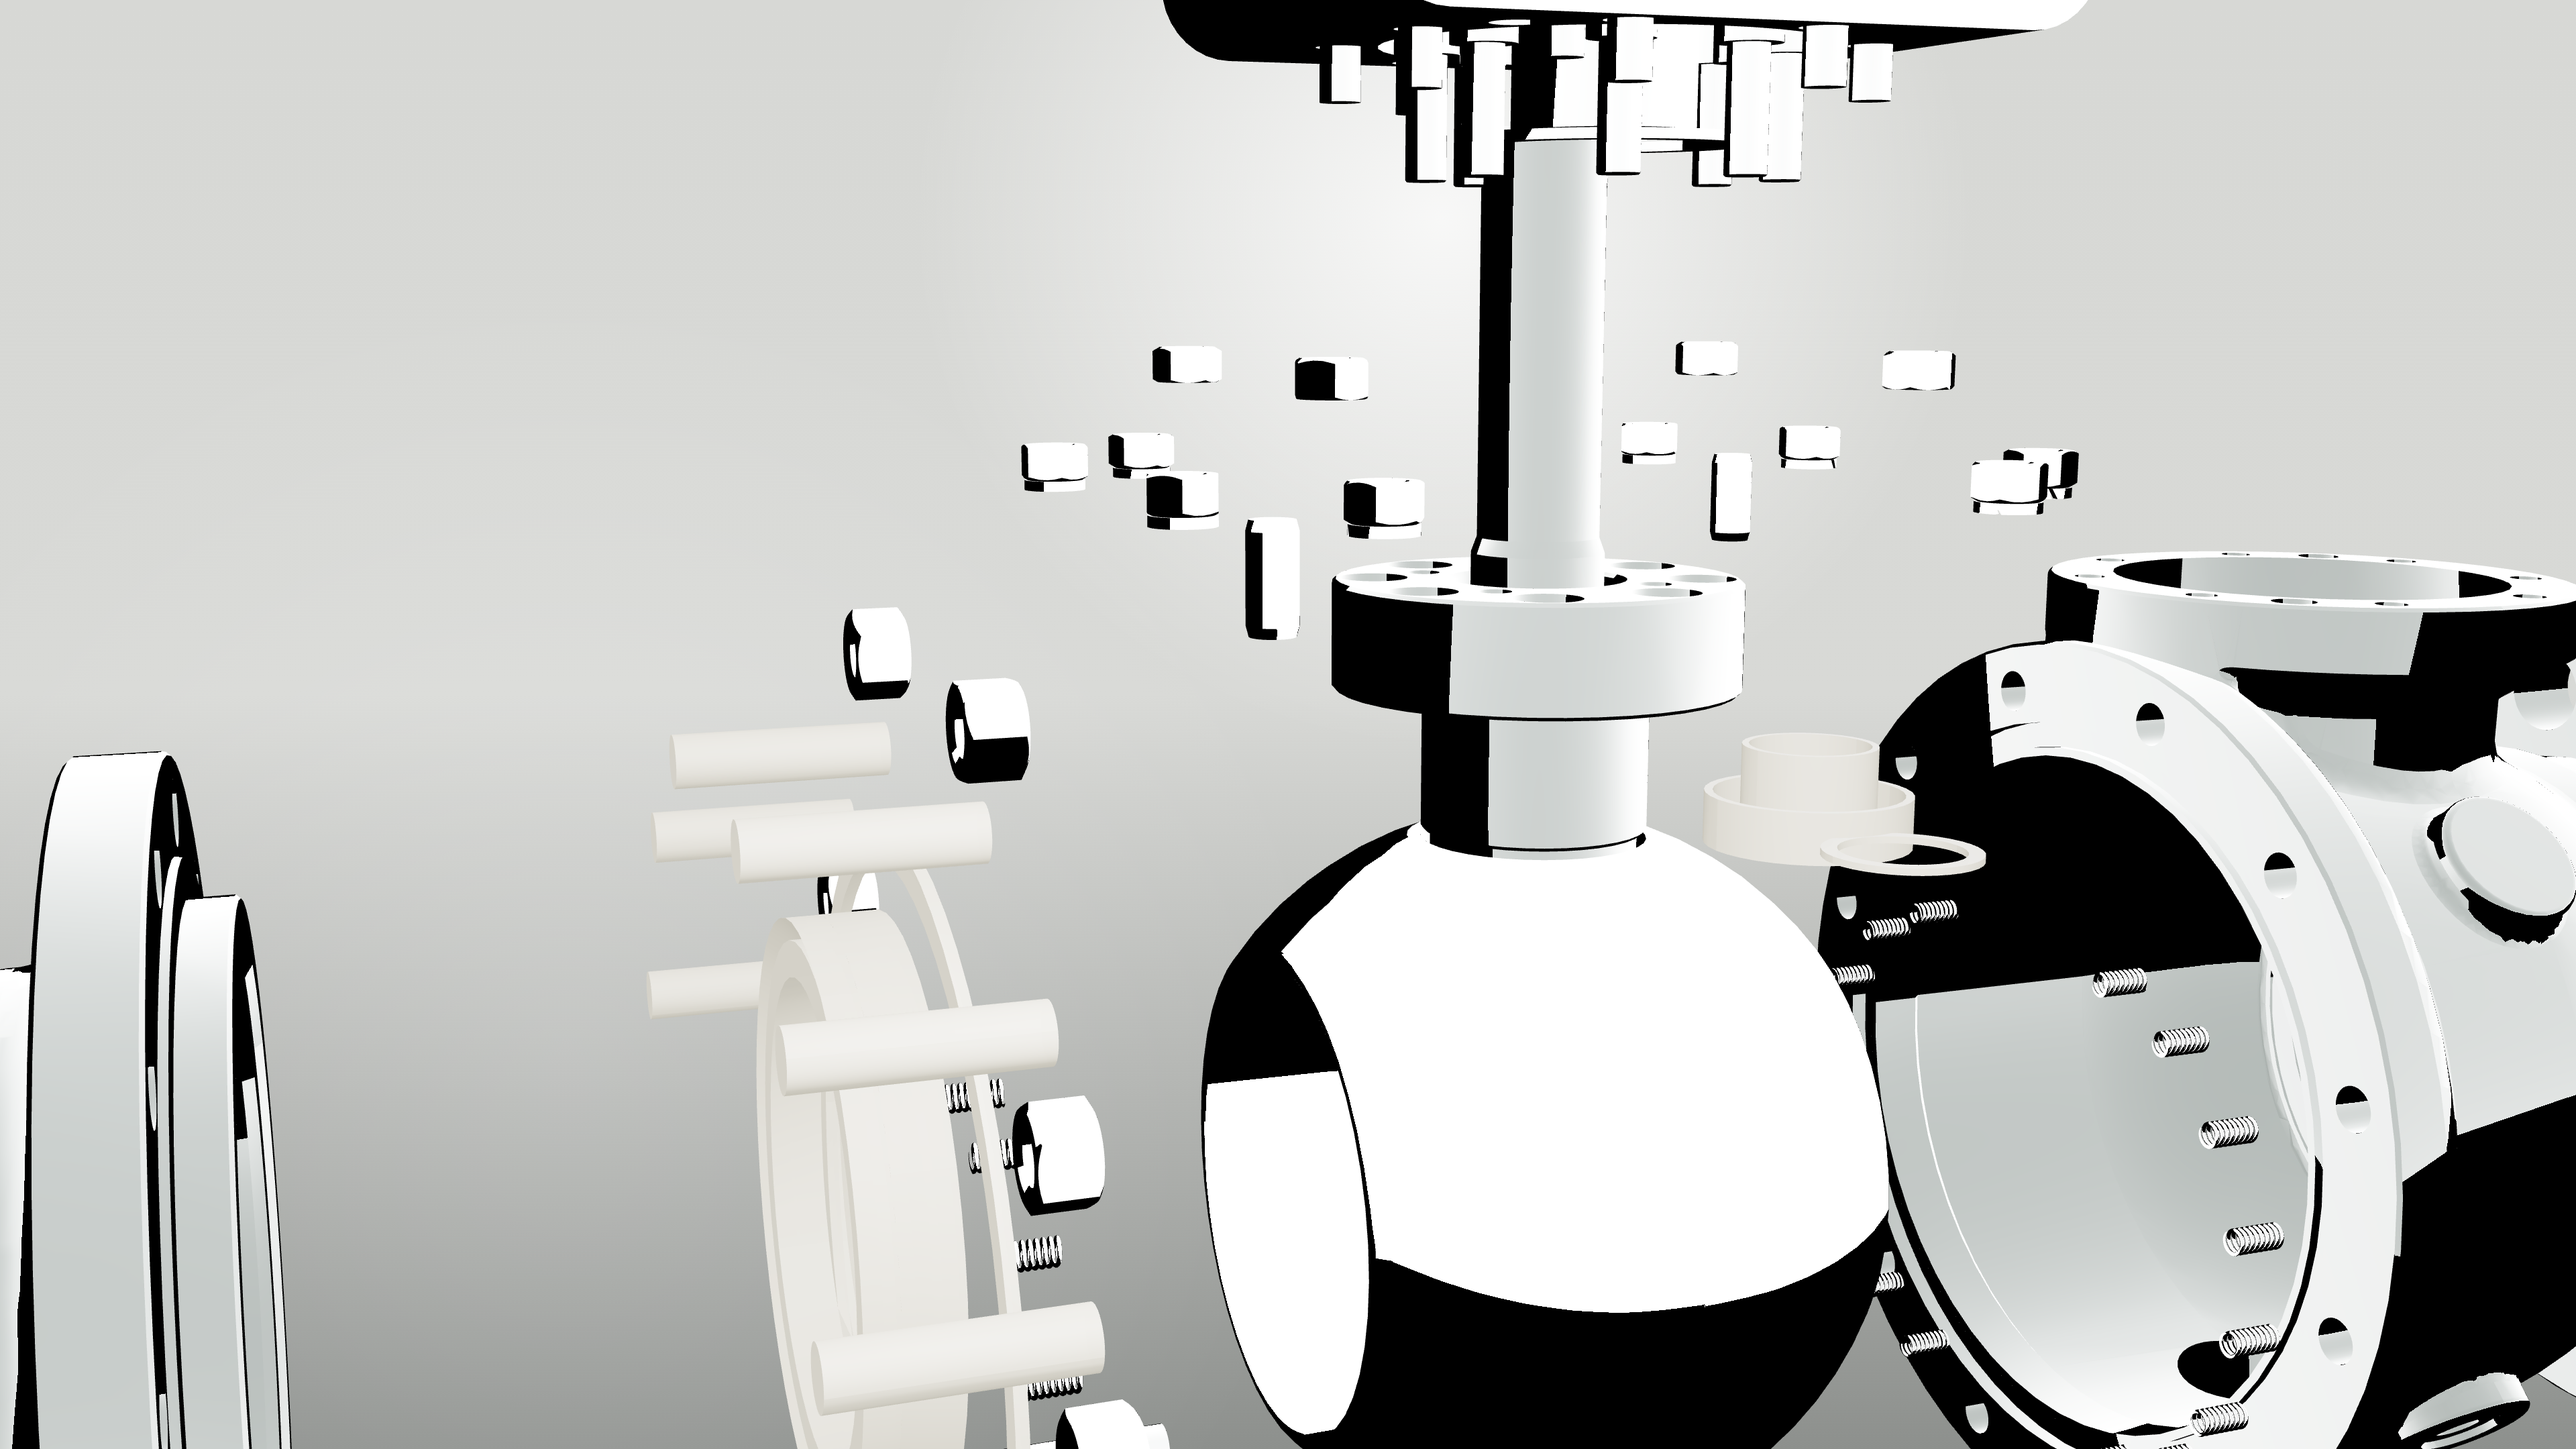
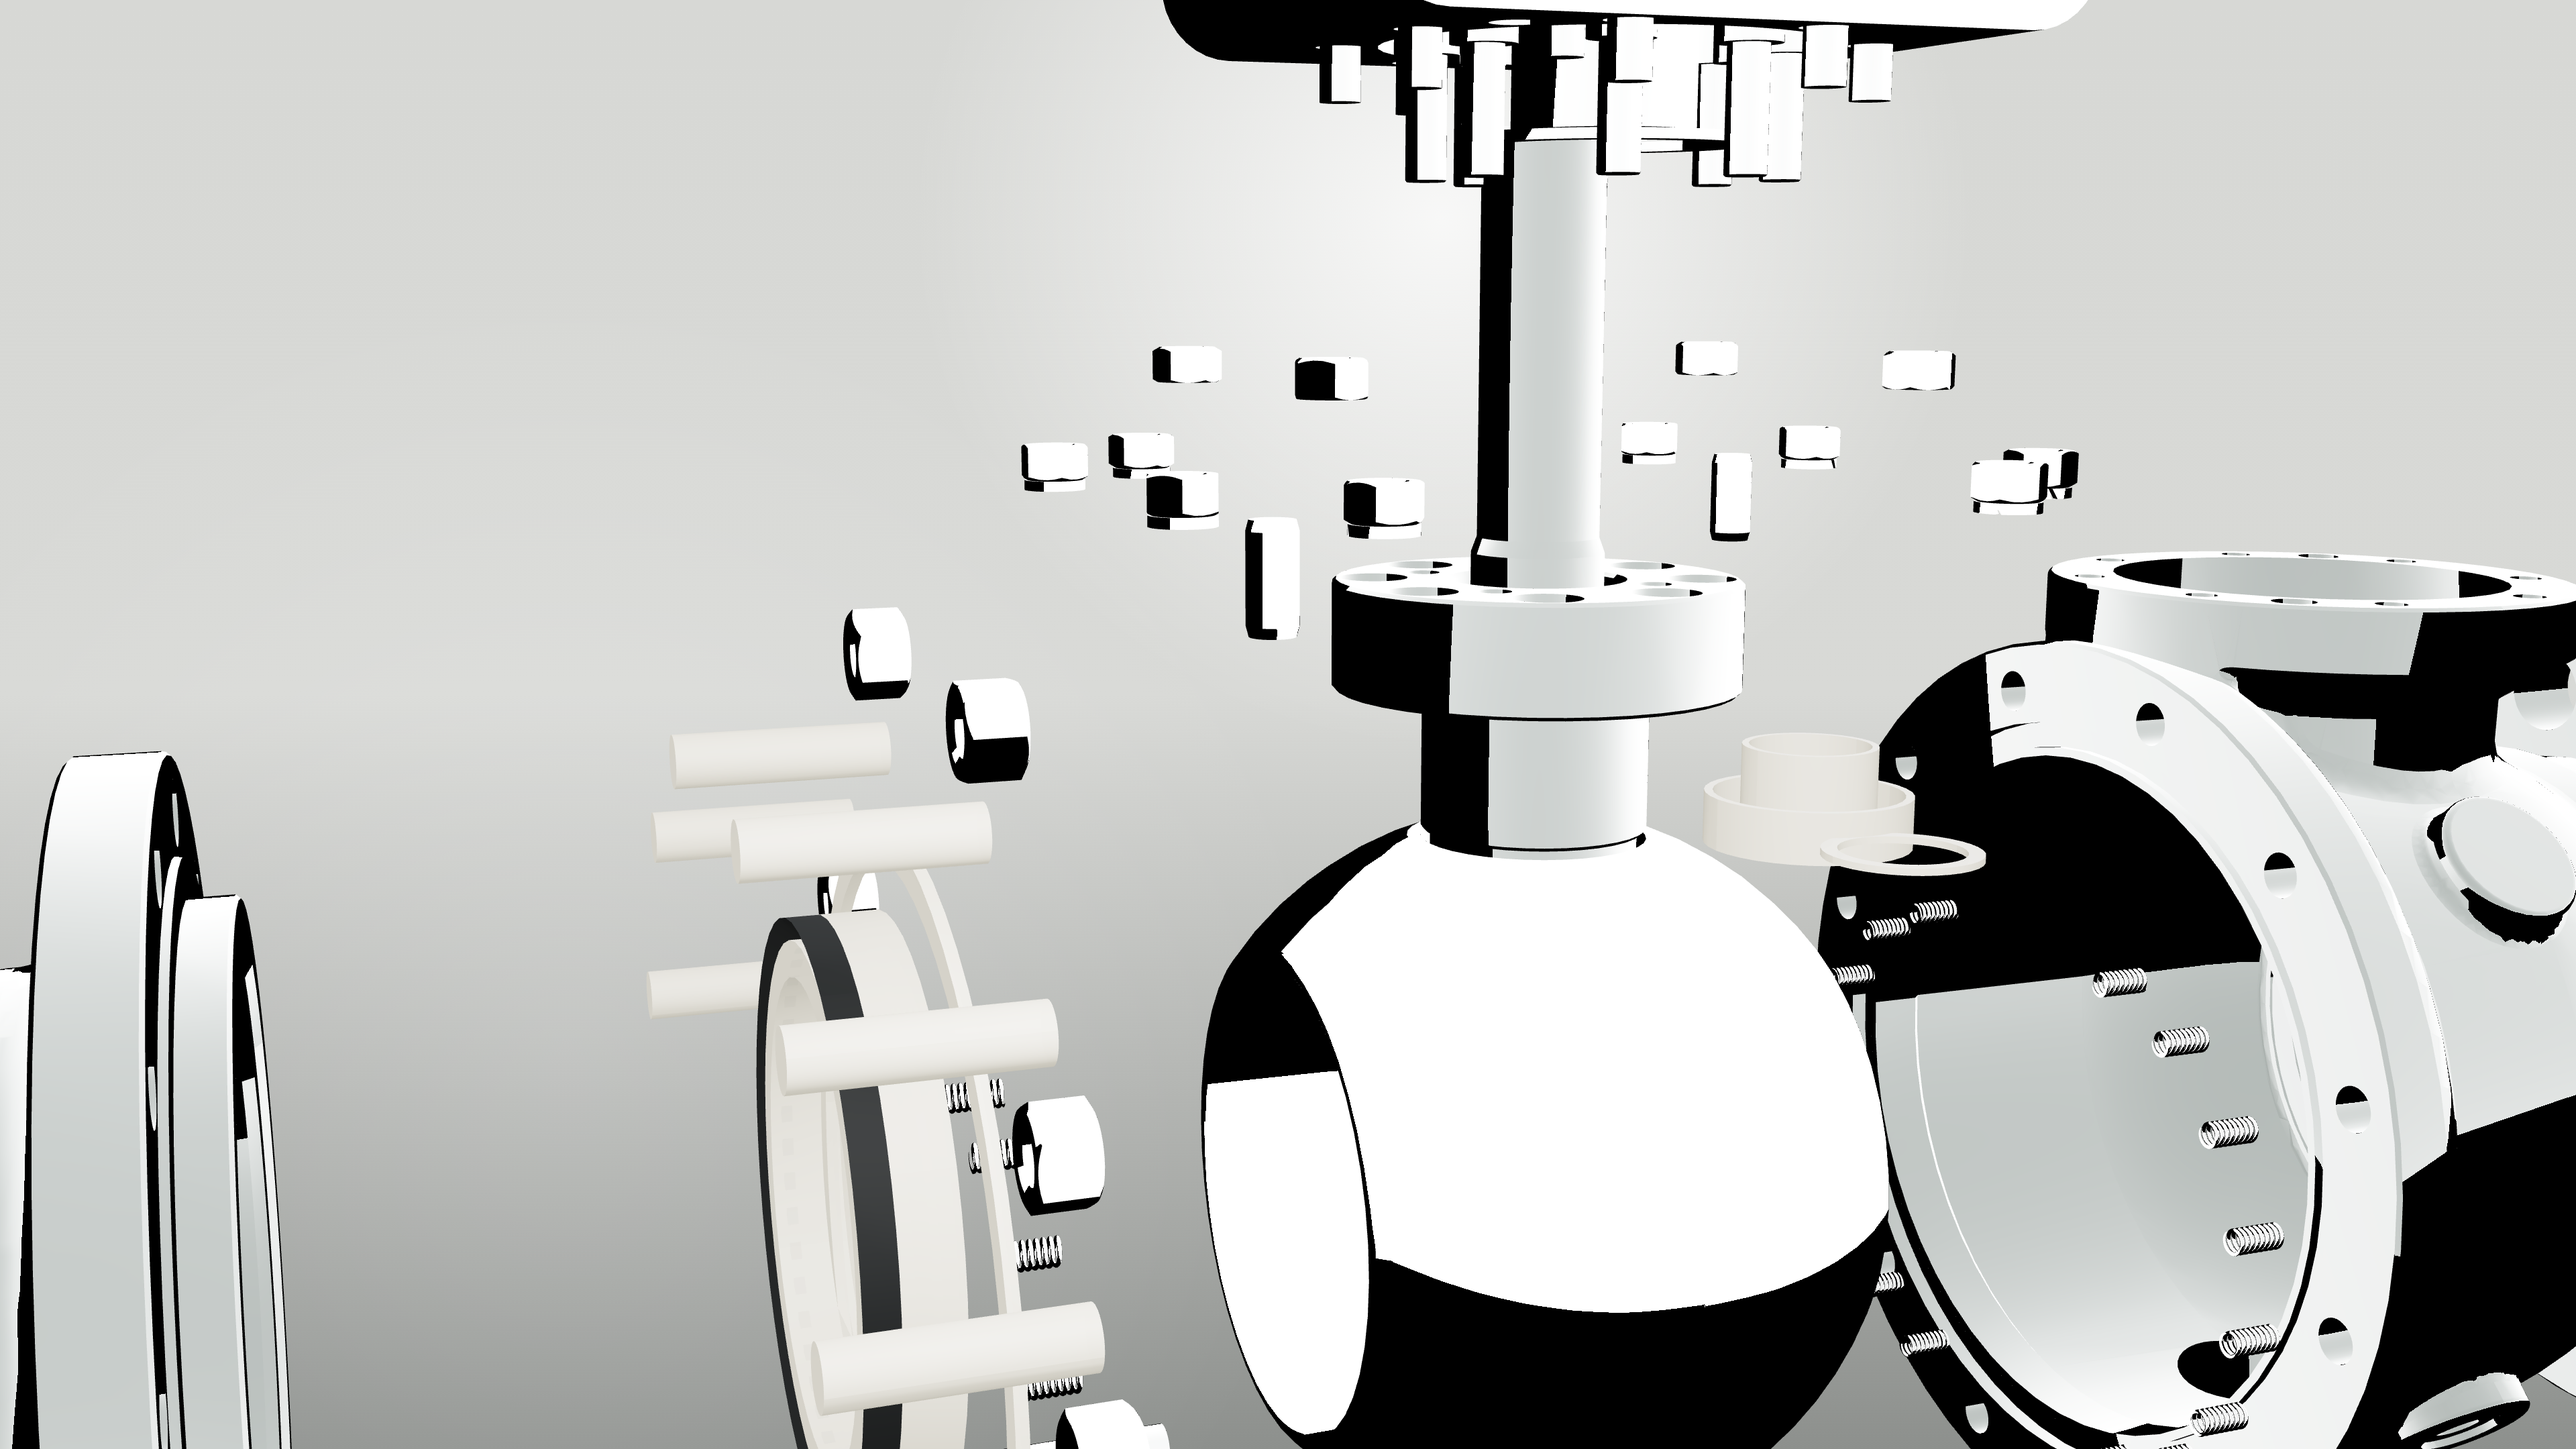
Refine Goal 19 seal material classification

Changed region(s): [[0.2812, 0.6204, 0.375, 1.0]]

diff --git a/docs/assets/ztovalve/hero/goal19-threejs-material-lookdev/preview.html b/docs/assets/ztovalve/hero/goal19-threejs-material-lookdev/preview.html
@@ -482,7 +482,7 @@
 
         if (group === "ball") return polishedBallMat.clone();
         if (group === "fastener") return fastenerStainlessMat.clone();
-        if (group === "seat" && darkSource && diagonal < 0.2) return graphitePackingMat.clone();
+        if (group === "seat" && darkSource && diagonal < 0.28) return graphitePackingMat.clone();
         if (group === "seat") return softSealPtfeMat.clone();
         if (group === "upperDrive" || group === "lowerSupport") return machinedStainlessMat.clone();
         if (nearCore && ringLike && diagonal < 0.18) return machinedStainlessMat.clone();
